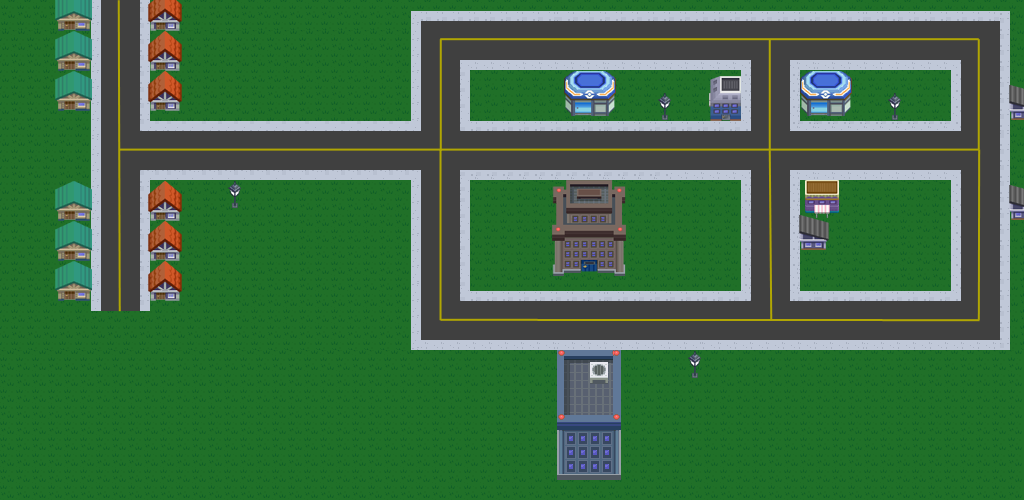
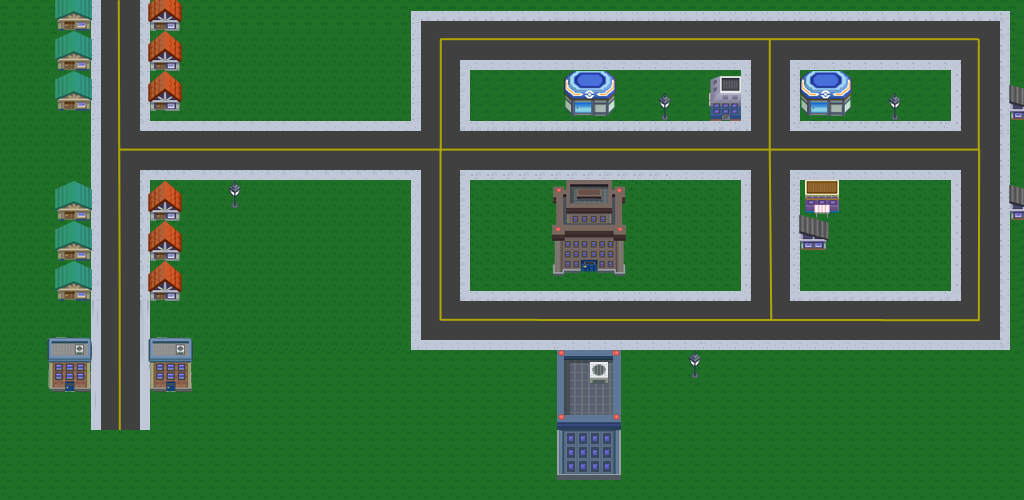
created new graphic items for apartment; removed superfluous/commented code

Changed region(s): [[0.0312, 0.6, 0.1875, 0.87]]

diff --git a/src/city/gui/CityGui.java b/src/city/gui/CityGui.java
@@ -120,7 +120,6 @@ public class CityGui extends JFrame implements ActionListener {
 
 		FileReader input = null;
 		try {
-			System.out.println(System.getProperty("file.separator"));
 			if(System.getProperty("file.separator").equals("/"))
 			{
 				input = new FileReader( "src//config.txt");
@@ -202,16 +201,11 @@ public class CityGui extends JFrame implements ActionListener {
 					person.HomeNum = count;
 					count++;
 					person.startThread();
-					//setTest();
-					//person.setTest();
-					
 					if (job.equals("RestaurantNormalWaiter")) {
 						NormalWaiterRole RestaurantNormalWaiterRole = new NormalWaiterRole(restaurantGui1);
 						
 						RestaurantNormalWaiterRole.setTag(AlertTag.RESTAURANT1);
 						
-						//WaiterGui g = new WaiterGui(RestaurantNormalWaiterRole);
-						//RestaurantNormalWaiterRole.setGui(g);
 						person.addJob("RestaurantNormalWaiter", start, end);
 						person.addRole(RestaurantNormalWaiterRole,"RestaurantNormalWaiter");
 						RestaurantNormalWaiterRole.setPerson(person);
@@ -305,11 +299,6 @@ public class CityGui extends JFrame implements ActionListener {
 			// TODO Auto-generated catch block
 			e.printStackTrace();
 		}
-//		for (PeopleAgent p : people) {
-//			p.Restaurants.add(restaurant);
-//			p.Markets.add(market);
-//			p.Banks.add(bank);
-//		}
 		setVisible(true);
 		setSize(1024, 768);
 
@@ -334,6 +323,7 @@ public class CityGui extends JFrame implements ActionListener {
 
 		// Create the BuildingPanel for each Building object
 		ArrayList<Building> buildings = cityPanel.getBuildings();
+
 		for (int i = 0; i < buildings.size(); i++) {
             Building b = buildings.get(i);
             BuildingPanel bp = new BuildingPanel(b, i, this);
@@ -345,6 +335,7 @@ public class CityGui extends JFrame implements ActionListener {
 		}
 		for(House h : apartment2.houses) {
 			apartment2HouseAnimationPanels.add(h.gui.hp);
+
 		}
 			
 		JScrollPane apartment1Container = new JScrollPane(apartment1.gui.ap);
@@ -385,10 +376,6 @@ public class CityGui extends JFrame implements ActionListener {
 
         }
 
-
-		//getContentPane().add(BorderLayout.WEST, cityControls);
-		//getContentPane().add(BorderLayout.NORTH, cityPanel);
-		//getContentPane().add(BorderLayout.SOUTH, buildingPanels);
         
         buildingPanels.setOpaque(true);
         cityControls.setOpaque(true);

diff --git a/src/city/gui/CityPanel.java b/src/city/gui/CityPanel.java
@@ -877,7 +877,7 @@ public class CityPanel extends JPanel implements MouseListener {
 			g2.fill(bs);
 		}
 		
-		//g.drawImage(background.getImage(), 0, 0, null);
+		g.drawImage(background.getImage(), 0, 0, null);
 		
 		for(int i=0;i<vehicles.size();i++) {
 			VehicleGui v = vehicles.get(i);
